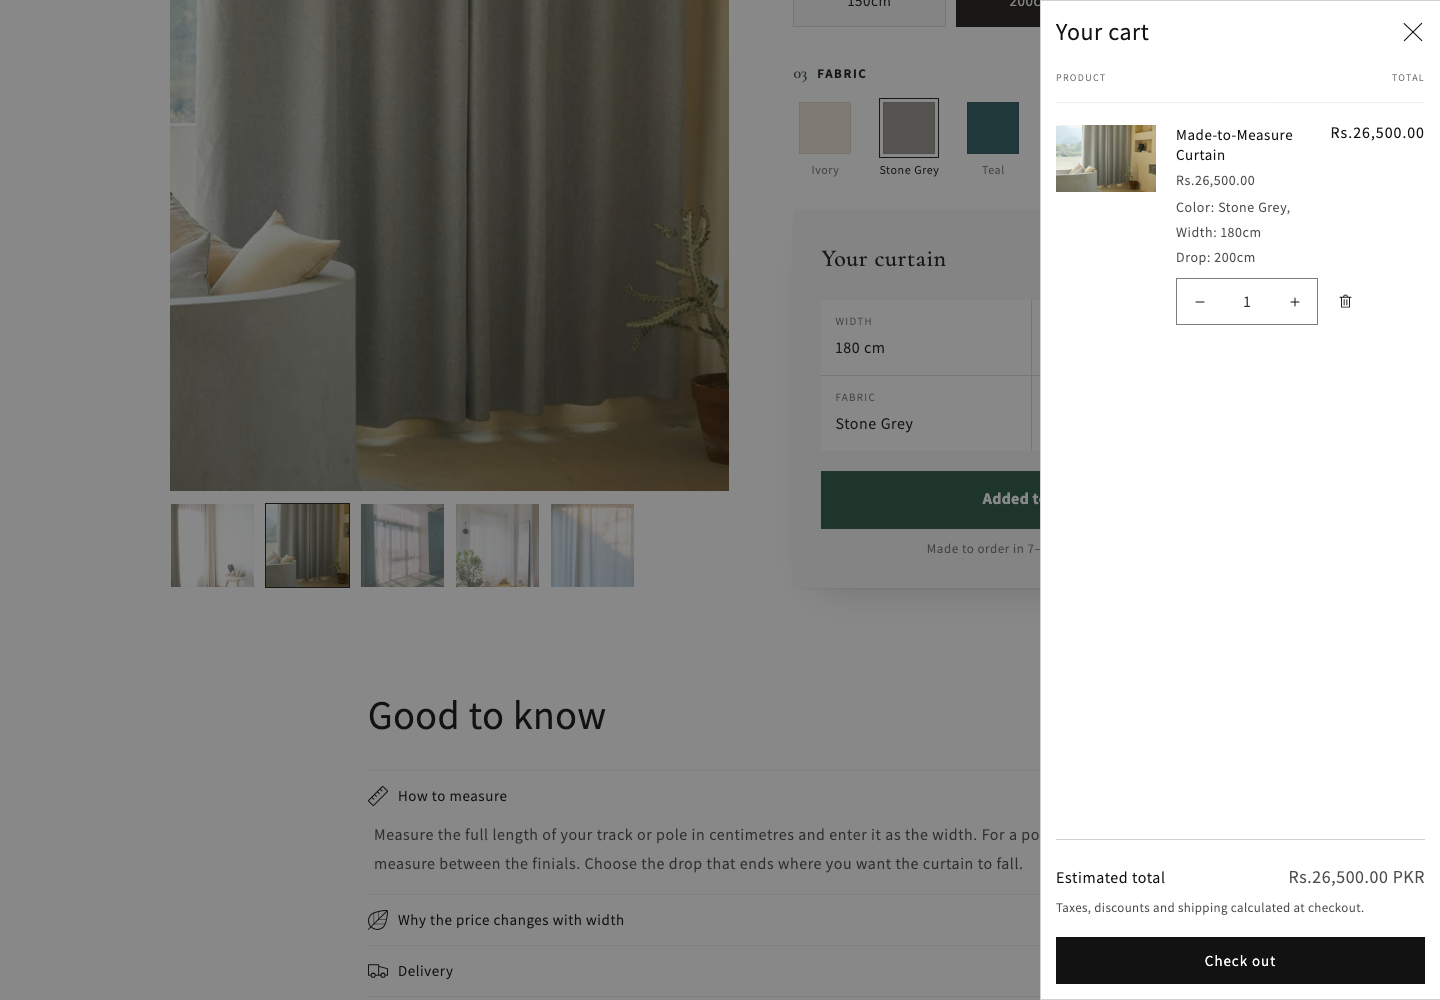
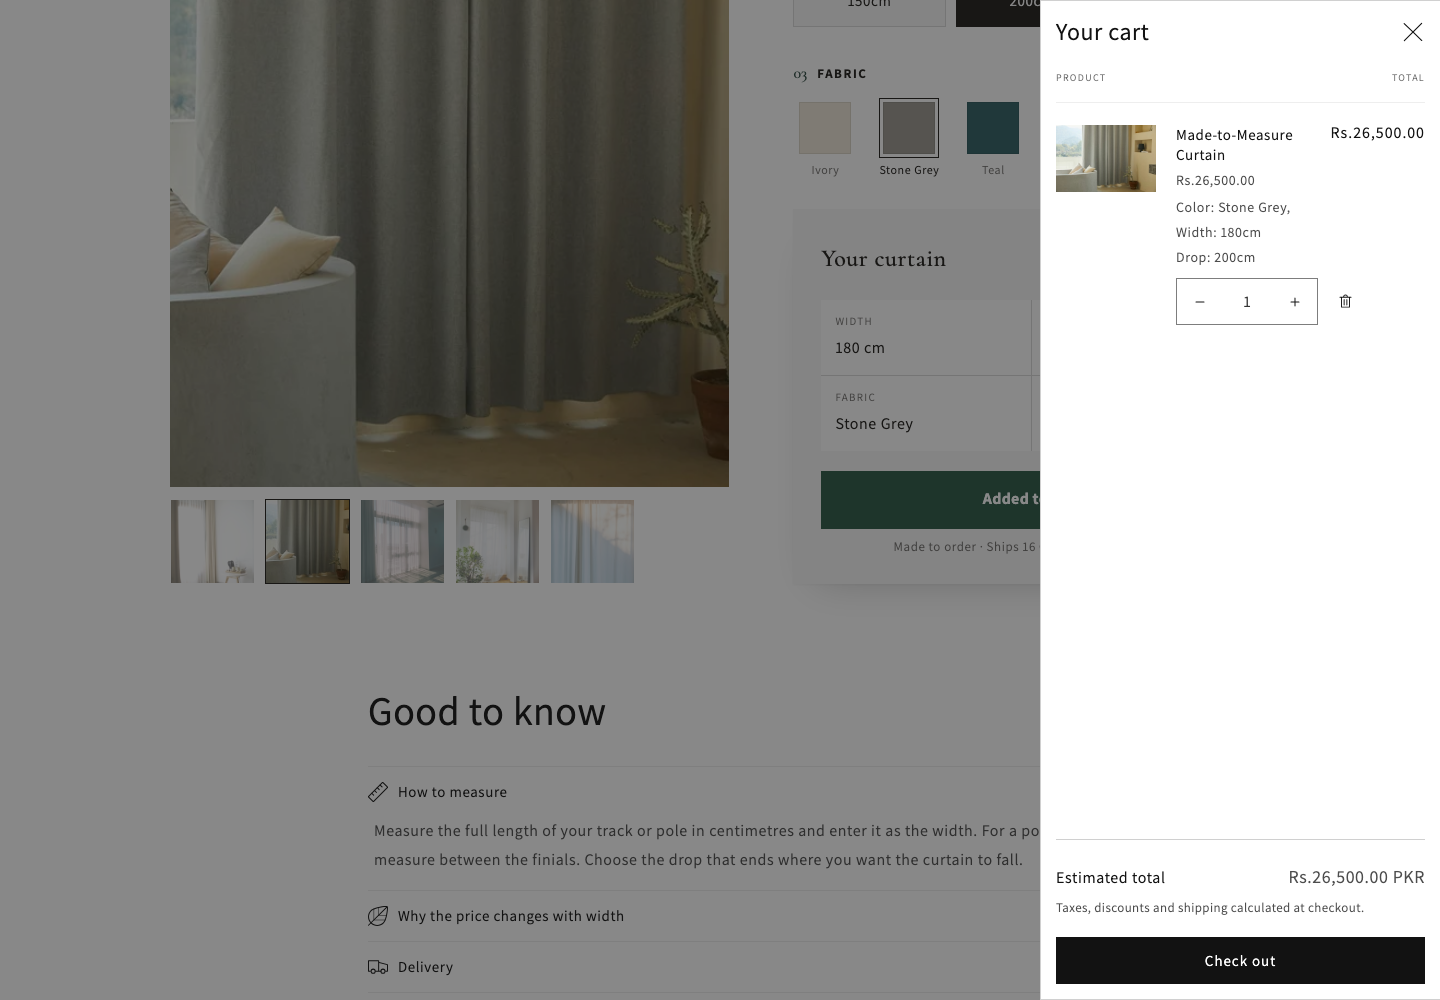
Show live delivery dates in the note under the button
The note accepts [start] and [end]. The script replaces them with dates
counted from today, optionally skipping weekends, so the estimate stays
current even when Shopify serves a cached page. The note's height is
reserved so filling it in causes no layout shift.

diff --git a/assets/curtain-configurator.js b/assets/curtain-configurator.js
@@ -6,6 +6,19 @@ const formatMoney = (cents, format) =>
     return fraction ? `${grouped}${decimal}${fraction}` : grouped;
   });
 
+const addDays = (days, workingDaysOnly) => {
+  const date = new Date();
+  while (days > 0) {
+    date.setDate(date.getDate() + 1);
+    // getDay() is 0 on Sunday and 6 on Saturday.
+    if (!workingDaysOnly || date.getDay() % 6 !== 0) days--;
+  }
+  return date;
+};
+
+const formatDay = (date) =>
+  `${date.getDate()} ${date.toLocaleDateString(document.documentElement.lang || undefined, { month: 'long' })}`;
+
 class CurtainConfigurator extends HTMLElement {
   connectedCallback() {
     this.form = this.querySelector('form');
@@ -32,7 +45,19 @@ class CurtainConfigurator extends HTMLElement {
       thumb.addEventListener('click', () => this.showMedia(thumb.dataset.mediaTarget))
     );
 
+    this.renderDeliveryDates();
     this.update();
+  }
+
+  renderDeliveryDates() {
+    const note = this.querySelector('[data-delivery-note]');
+    if (!note) return;
+
+    const { deliveryNote, minDays, maxDays, workingDays } = note.dataset;
+    const workingDaysOnly = workingDays === 'true';
+    const start = addDays(Number(minDays), workingDaysOnly);
+    const end = addDays(Math.max(Number(minDays), Number(maxDays)), workingDaysOnly);
+    note.textContent = deliveryNote.replace('[start]', formatDay(start)).replace('[end]', formatDay(end));
   }
 
   onInput(event) {

diff --git a/assets/curtain-configurator.css b/assets/curtain-configurator.css
@@ -504,8 +504,10 @@
 }
 
 .cc__note {
+  min-height: 1.5em;
   margin: -1.2rem 0 0;
   font-size: 1.3rem;
+  line-height: 1.5;
   color: var(--cc-muted);
   text-align: center;
 }
@@ -593,5 +595,10 @@
 
   .cc__swatches {
     gap: 1.4rem 1.6rem;
+  }
+
+  /* Room for two lines, so the dates filled in by the script never push content down. */
+  .cc__note {
+    min-height: 3em;
   }
 }

diff --git a/README.md b/README.md
@@ -198,6 +198,7 @@ Dawn already hides underscore properties in both cart templates, so no change wa
 - **Fixed media box.** The gallery uses a fixed aspect ratio, and every image has width and height attributes.
 - **Reserved message slot.** The hint and the validation error share one grid cell. Errors toggle visibility instead of being inserted.
 - **Stable text boxes.** The price, the summary values and the button label sit in boxes that don't change size when their text changes. Numbers use tabular figures.
+- **Reserved note height.** The delivery note keeps room for its text before the script fills in the dates, two lines on mobile.
 - **First paint.** The first price is rendered by Liquid, so nothing moves when the script runs.
 - **Animation.** Price changes animate with `opacity` and `transform` only.
 
@@ -214,6 +215,7 @@ The end-to-end test records every `layout-shift` entry during the interactions a
 ## Theme editor settings
 
 - **Content:** heading, vendor, description, panel count visibility, the note under the button, and image ratio.
+- **Delivery dates:** the note can contain `[start]` and `[end]`. The script fills them with dates counted from today, for example "Made to order · Ships 16 October to 21 October". The earliest and latest day counts are settings, and weekends can be skipped. The dates are worked out in the browser, because Shopify may serve a cached page rendered on an earlier day.
 - **Configuration:** default width, and the names of the Color, Drop and Panels options.
 - **Style:** heading font, background (white by default), alternative background (#F7F7F7, used for the summary card, inputs and image backdrop), text and accent colors.
 - **Spacing:** top and bottom padding, and the column gap.
@@ -223,11 +225,12 @@ The section only appears on product templates. It shows a setup notice in the ed
 
 ## Testing
 
-`tests/e2e/run.mjs` runs 41 checks against a live preview:
+`tests/e2e/run.mjs` runs 42 checks against a live preview:
 
 - **Rendering:** no Panels control on the page, and no Dawn product form.
 - **Pricing:** price and panel count at every tier boundary, from 50 to 360 cm.
 - **Validation:** inline errors for 49, 361, 180.5 and an empty field.
+- **Delivery dates:** the note shows the dates 7 and 10 working days from today.
 - **Interaction:** color swaps the gallery image, and arrow keys move through the swatches.
 - **Layout:** zero layout shift, and no horizontal overflow at tablet and mobile widths.
 - **Cart:** the exact `/cart/add.js` payload, the drawer contents, the cart page contents, and the cart line read back from `/cart.js`.
